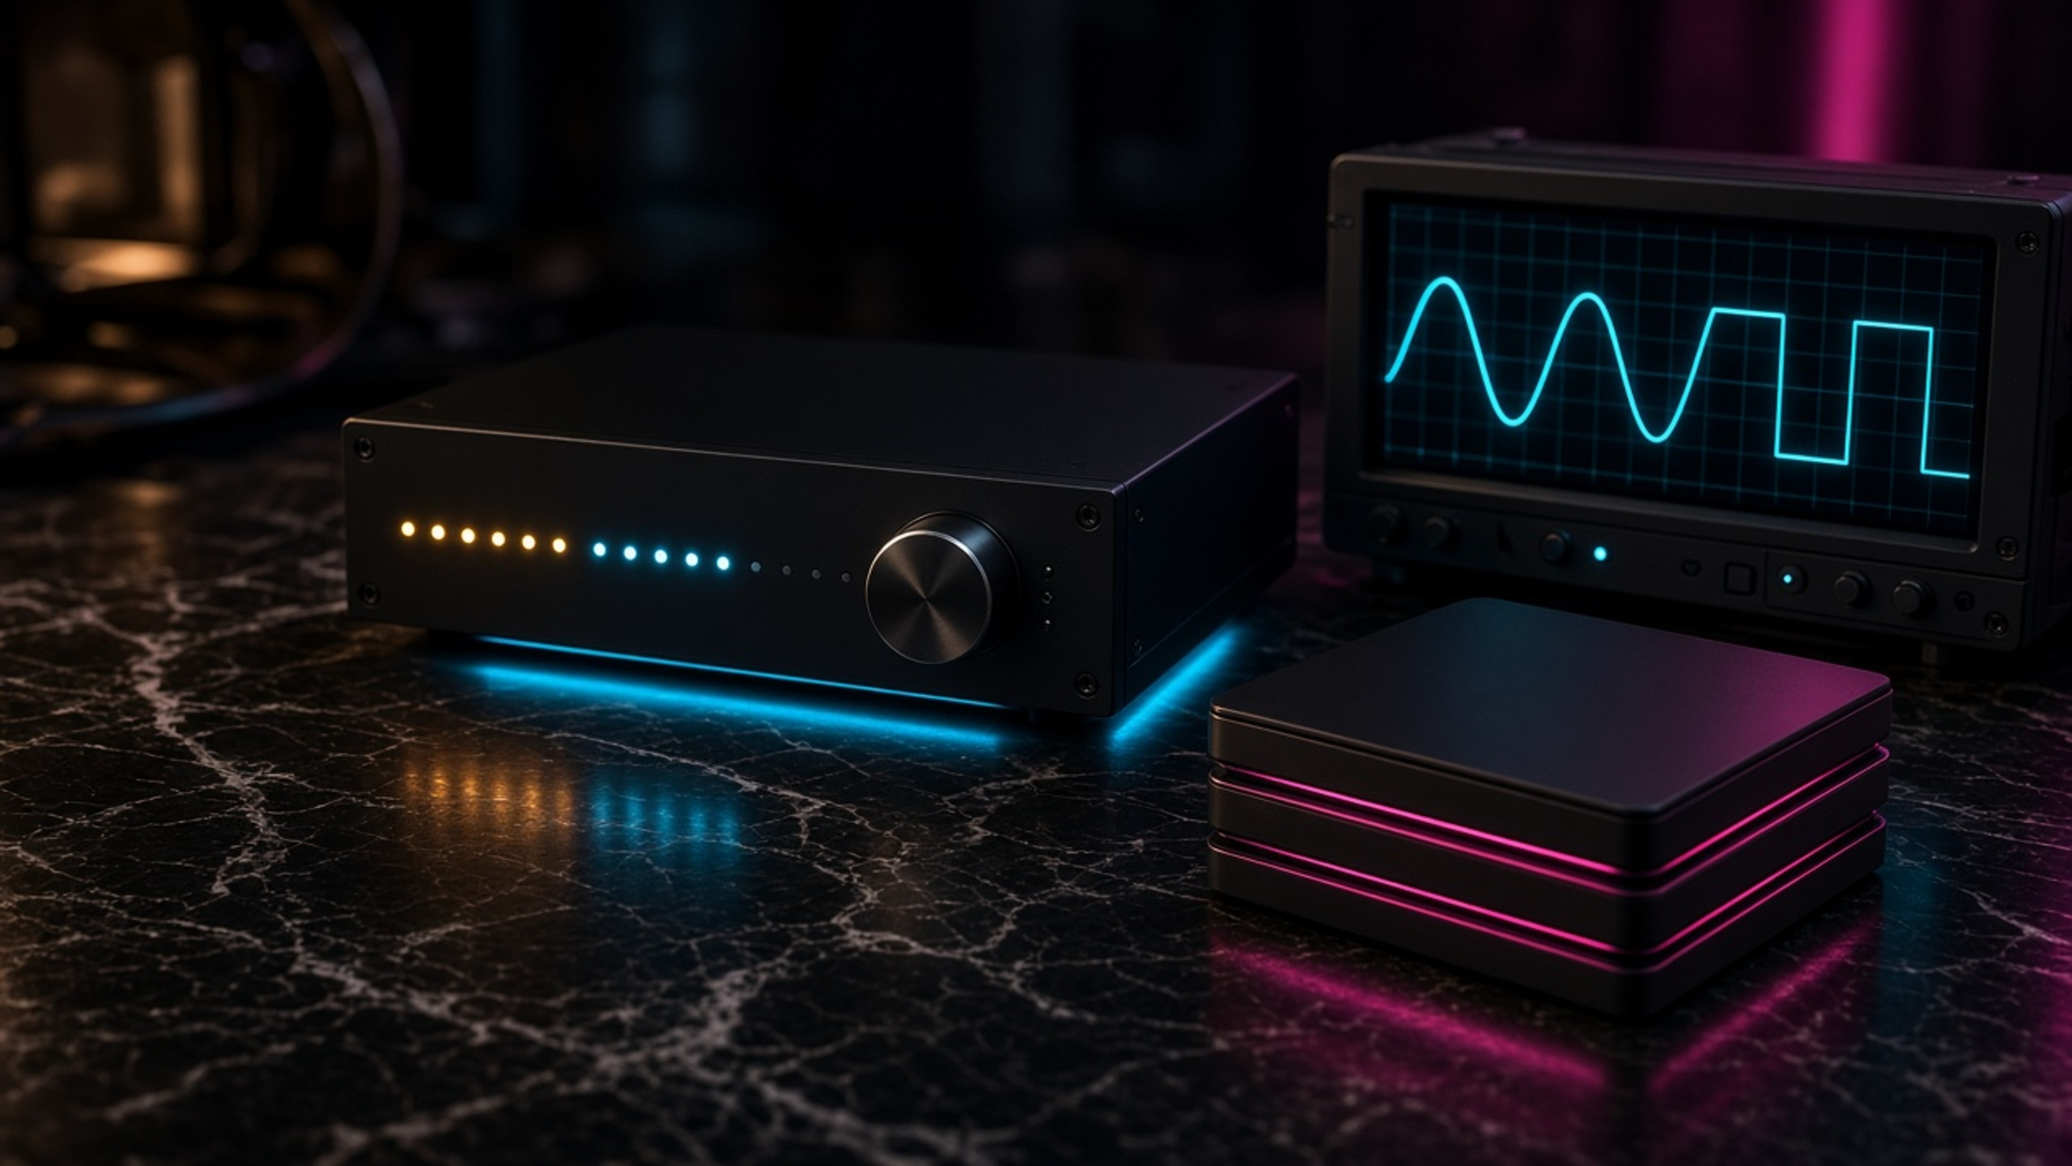
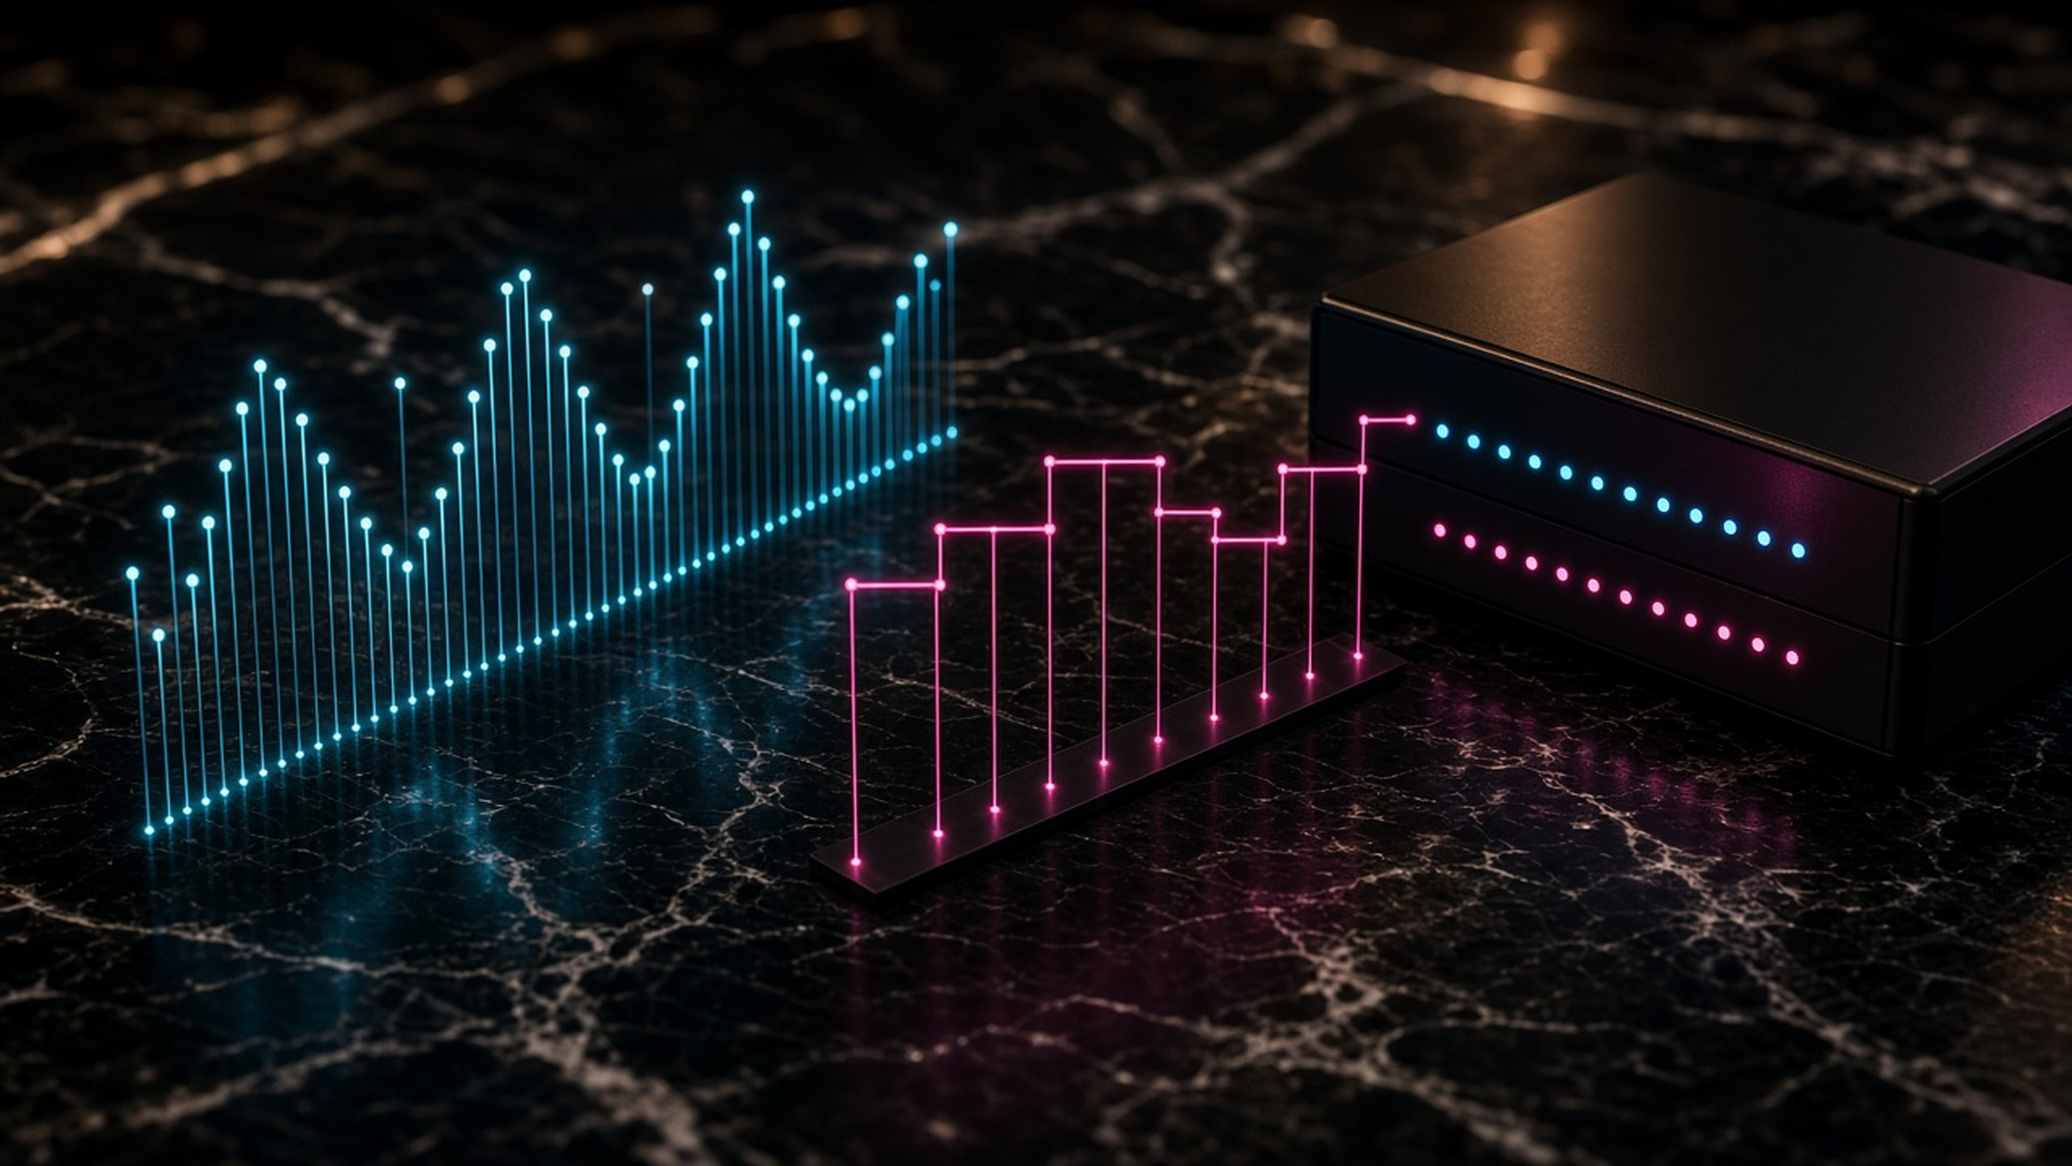
Expand sample-rate essay ~4×; swap cover to option C (?v=sr2)
Replace the live cover with the AD/waveform option C art, bump cache-busters
to ?v=sr2, and expand the hygiene pitch into concrete sections on wrong rates,
44.1/48/96, bit depth, bounce checklist, traps, and ffprobe/CoProducer verify.

diff --git a/blog/sample-rate-and-bit-depth-for-delivery.html b/blog/sample-rate-and-bit-depth-for-delivery.html
@@ -2,19 +2,19 @@
 <html lang="en">
 <head>
 <meta charset="utf-8"/>
-<meta content="width=device-width,initial-scale=1" name="viewport"/><meta content="https://myaiplug.github.io/coproducer-web/blog/img/essays/sample-rate-and-bit-depth-for-delivery.jpg?v=sr1" name="twitter:image"/><meta content="CoProducer fails sample rates under 44.1 kHz. A 32 kHz MP3 labeled MASTER is not a master. Bit depth and rate are hygiene, not vibe." name="twitter:description"/><meta content="Sample rate and bit depth are delivery hygiene" name="twitter:title"/><meta content="summary_large_image" name="twitter:card"/><meta content="2026-08-21T00:00:00Z" property="article:modified_time"/><meta content="2026-08-21T00:00:00Z" property="article:published_time"/><meta content="1440" property="og:image:height"/><meta content="2560" property="og:image:width"/><meta content="https://myaiplug.github.io/coproducer-web/blog/sample-rate-and-bit-depth-for-delivery.html" property="og:url"/><meta content="en_US" property="og:locale"/><meta content="CoProducer" property="og:site_name"/><meta content="article" property="og:type"/><link href="https://myaiplug.github.io/coproducer-web/llms.txt" rel="alternate" title="llms.txt" type="text/plain"/><meta content="NoDAW Labs" name="author"/><meta content="#050308" name="theme-color"/><meta content="index,follow,max-image-preview:large" name="robots"/>
+<meta content="width=device-width,initial-scale=1" name="viewport"/><meta content="https://myaiplug.github.io/coproducer-web/blog/img/essays/sample-rate-and-bit-depth-for-delivery.jpg?v=sr2" name="twitter:image"/><meta content="CoProducer fails sample rates under 44.1 kHz. Why 32 kHz fails delivery, when 44.1/48/96 are fine, what bit depth distributors want, and how to verify the bounce." name="twitter:description"/><meta content="Sample rate and bit depth are delivery hygiene" name="twitter:title"/><meta content="summary_large_image" name="twitter:card"/><meta content="2026-10-06T00:00:00Z" property="article:modified_time"/><meta content="2026-08-21T00:00:00Z" property="article:published_time"/><meta content="1440" property="og:image:height"/><meta content="2560" property="og:image:width"/><meta content="https://myaiplug.github.io/coproducer-web/blog/sample-rate-and-bit-depth-for-delivery.html" property="og:url"/><meta content="en_US" property="og:locale"/><meta content="CoProducer" property="og:site_name"/><meta content="article" property="og:type"/><link href="https://myaiplug.github.io/coproducer-web/llms.txt" rel="alternate" title="llms.txt" type="text/plain"/><meta content="NoDAW Labs" name="author"/><meta content="#050308" name="theme-color"/><meta content="index,follow,max-image-preview:large" name="robots"/><meta content="sample rate, bit depth, 44.1 kHz, 48 kHz, 24-bit, dither, delivery, masters, CoProducer, NoDAW" name="keywords"/>
 <title>Sample rate and bit depth are delivery hygiene | Lacquer</title>
-<meta content="CoProducer fails sample rates under 44.1 kHz. A 32 kHz MP3 labeled MASTER is not a master. Bit depth and rate are hygiene, not vibe." name="description"/>
+<meta content="CoProducer fails sample rates under 44.1 kHz. Why 32 kHz fails delivery, when 44.1/48/96 are fine, what bit depth distributors want, and how to verify the bounce." name="description"/>
 <link href="https://myaiplug.github.io/coproducer-web/blog/sample-rate-and-bit-depth-for-delivery.html" rel="canonical"/>
 <meta content="Sample rate and bit depth are delivery hygiene" property="og:title"/>
-<meta content="CoProducer fails sample rates under 44.1 kHz. A 32 kHz MP3 labeled MASTER is not a master. Bit depth and rate are hygiene, not vibe." property="og:description"/>
-<meta content="https://myaiplug.github.io/coproducer-web/blog/img/essays/sample-rate-and-bit-depth-for-delivery.jpg?v=sr1" property="og:image"/>
+<meta content="CoProducer fails sample rates under 44.1 kHz. Why 32 kHz fails delivery, when 44.1/48/96 are fine, what bit depth distributors want, and how to verify the bounce." property="og:description"/>
+<meta content="https://myaiplug.github.io/coproducer-web/blog/img/essays/sample-rate-and-bit-depth-for-delivery.jpg?v=sr2" property="og:image"/>
 <link href="https://fonts.googleapis.com" rel="preconnect"/>
 <link href="https://fonts.googleapis.com/css2?family=Cormorant+Garamond:ital,wght@0,500;1,500;1,600&amp;family=Figtree:wght@400;500&amp;family=JetBrains+Mono:wght@400;500&amp;display=swap" rel="stylesheet"/>
 <link href="css/journal.css" rel="stylesheet"/>
 
 
-<script type="application/ld+json">{"@context":"https://schema.org","@type":"Article","headline":"Sample rate and bit depth are delivery hygiene","description":"CoProducer fails sample rates under 44.1 kHz. A 32 kHz MP3 labeled MASTER is not a master. Bit depth and rate are hygiene, not vibe.","datePublished":"2026-08-21","dateModified":"2026-08-21","mainEntityOfPage":{"@type":"WebPage","@id":"https://myaiplug.github.io/coproducer-web/blog/sample-rate-and-bit-depth-for-delivery.html"},"image":{"@type":"ImageObject","url":"https://myaiplug.github.io/coproducer-web/blog/img/essays/sample-rate-and-bit-depth-for-delivery.jpg?v=sr1","width":2560,"height":1440},"author":{"@type":"Organization","name":"NoDAW Labs","url":"https://myaiplug.github.io/coproducer-web/","logo":"https://myaiplug.github.io/coproducer-web/assets/og-default.jpg"},"publisher":{"@type":"Organization","name":"NoDAW Labs","url":"https://myaiplug.github.io/coproducer-web/","logo":"https://myaiplug.github.io/coproducer-web/assets/og-default.jpg"},"isPartOf":{"@type":"Blog","name":"Lacquer — CoProducer Journal","url":"https://myaiplug.github.io/coproducer-web/blog/index.html"},"keywords":["sample rate","bit depth","44.1 kHz","delivery","masters"],"speakable":{"@type":"SpeakableSpecification","cssSelector":[".answer","h1"]}}</script><script type="application/ld+json">{"@context":"https://schema.org","@type":"FAQPage","mainEntity":[{"@type":"Question","name":"Is 96 kHz required?","acceptedAnswer":{"@type":"Answer","text":"No for most music delivery. Consistency and legality beat fetish sample rates."}},{"@type":"Question","name":"Does CoProducer convert for you?","acceptedAnswer":{"@type":"Answer","text":"It measures and reports. Conversion is a separate bounce decision."}}]}</script><script type="application/ld+json">{"@context":"https://schema.org","@type":"BreadcrumbList","itemListElement":[{"@type":"ListItem","position":1,"name":"CoProducer","item":"https://myaiplug.github.io/coproducer-web/"},{"@type":"ListItem","position":2,"name":"Lacquer Journal","item":"https://myaiplug.github.io/coproducer-web/blog/index.html"},{"@type":"ListItem","position":3,"name":"Sample rate and bit depth are delivery hygiene","item":"https://myaiplug.github.io/coproducer-web/blog/sample-rate-and-bit-depth-for-delivery.html"}]}</script></head>
+<script type="application/ld+json">{"@context":"https://schema.org","@type":"Article","headline":"Sample rate and bit depth are delivery hygiene","description":"CoProducer fails sample rates under 44.1 kHz. Why 32 kHz fails delivery, when 44.1/48/96 are fine, what bit depth distributors want, and how to verify the bounce.","datePublished":"2026-08-21","dateModified":"2026-10-06","mainEntityOfPage":{"@type":"WebPage","@id":"https://myaiplug.github.io/coproducer-web/blog/sample-rate-and-bit-depth-for-delivery.html"},"image":{"@type":"ImageObject","url":"https://myaiplug.github.io/coproducer-web/blog/img/essays/sample-rate-and-bit-depth-for-delivery.jpg?v=sr2","width":2560,"height":1440},"author":{"@type":"Organization","name":"NoDAW Labs","url":"https://myaiplug.github.io/coproducer-web/","logo":"https://myaiplug.github.io/coproducer-web/assets/og-default.jpg"},"publisher":{"@type":"Organization","name":"NoDAW Labs","url":"https://myaiplug.github.io/coproducer-web/","logo":"https://myaiplug.github.io/coproducer-web/assets/og-default.jpg"},"isPartOf":{"@type":"Blog","name":"Lacquer — CoProducer Journal","url":"https://myaiplug.github.io/coproducer-web/blog/index.html"},"keywords":["sample rate","bit depth","44.1 kHz","48 kHz","24-bit","dither","delivery","masters"],"speakable":{"@type":"SpeakableSpecification","cssSelector":[".answer","h1"]}}</script><script type="application/ld+json">{"@context":"https://schema.org","@type":"FAQPage","mainEntity":[{"@type":"Question","name":"Is 96 kHz required?","acceptedAnswer":{"@type":"Answer","text":"No for most music delivery. Consistency and legality beat fetish sample rates. Deliver at the rate the storefront asks for, usually 44.1 or 48 kHz."}},{"@type":"Question","name":"Does CoProducer convert for you?","acceptedAnswer":{"@type":"Answer","text":"It measures and reports. Conversion is a separate bounce decision — fix the session or re-export at the right rate and depth."}},{"@type":"Question","name":"Should I deliver 32-bit float?","acceptedAnswer":{"@type":"Answer","text":"Keep 32-bit float for session and archive work. Most distributors want 16- or 24-bit PCM WAV/FLAC. Dither when you go to 16-bit."}},{"@type":"Question","name":"Why does CoProducer fail under 44.1 kHz?","acceptedAnswer":{"@type":"Answer","text":"Because most storefronts reject or silently upsample junk rates. A 32 kHz file is not a master, even if the filename says MASTER."}}]}</script><script type="application/ld+json">{"@context":"https://schema.org","@type":"BreadcrumbList","itemListElement":[{"@type":"ListItem","position":1,"name":"CoProducer","item":"https://myaiplug.github.io/coproducer-web/"},{"@type":"ListItem","position":2,"name":"Lacquer Journal","item":"https://myaiplug.github.io/coproducer-web/blog/index.html"},{"@type":"ListItem","position":3,"name":"Sample rate and bit depth are delivery hygiene","item":"https://myaiplug.github.io/coproducer-web/blog/sample-rate-and-bit-depth-for-delivery.html"}]}</script></head>
 <body>
 <header class="top">
 <a class="mark" href="../index.html"><em>Co</em>Producer</a>
@@ -29,26 +29,66 @@
 <a class="cta" href="../index.html#analyzeHome">Measure a mix</a>
 </header>
 <article class="post" id="main">
-<div class="post-hero"><img alt="AD converter and oscilloscope on dark marble" src="img/essays/sample-rate-and-bit-depth-for-delivery.jpg?v=sr1"/></div>
+<div class="post-hero"><img alt="Sampled waveform stems and quantized stairs with AD converter on dark marble" src="img/essays/sample-rate-and-bit-depth-for-delivery.jpg?v=sr2"/></div>
 <header>
-<p class="kicker">Delivery · 21 August 2026 · 6 min</p>
+<p class="kicker">Delivery · 21 August 2026 · 8 min</p>
 <h1>Sample rate and bit depth are delivery hygiene</h1>
 <p class="meta">NoDAW Labs · Lacquer Vol. 02</p>
 </header>
 <p class="answer">CoProducer fails sample rates under 44.1 kHz. A 32 kHz MP3 labeled MASTER is not a master. Bit depth and rate mistakes are cheap to prevent and expensive to explain to a distributor.</p>
-<h2>The boring gate that saves recalls</h2>
-<p>Most storefronts expect at least 44.1 kHz. Working at 48 kHz is fine; delivering a bounced-down consumer encode is not. Check the file properties before you upload — or let the report fail you first in private.</p>
-<p>Keep a bounce folder naming convention that includes rate and bit depth so assistants stop guessing.</p>
-<h2>Where it sits in the checklist</h2>
-<p>Sample rate sits beside LUFS, true peak, clips, phase, and score. It is not glamorous. It is why Friday night uploads get rejected Monday morning.</p>
-<p>Measure once. Fix once. Ship.</p>
+<p>You already know the loudness and true-peak story. This gate is quieter. It does not change how the chorus hits. It decides whether the portal accepts the upload on Monday. Treat rate and depth like file naming: boring, visible, non-negotiable.</p>
+<h2>Why 32 kHz fails — and what CoProducer flags</h2>
+<p>Most storefronts expect at least 44.1 kHz. Anything under that is usually a bounced-down preview, a voice-memo export, or an MP3 someone renamed. CoProducer’s release gate matches the checklist: sample rate <strong>≥ 44.1 kHz</strong>. Fail it in private before the distributor fails you in public.</p>
+<p>Wrong rate does not always sound broken on laptop speakers. Nyquist for 32 kHz is 16 kHz, so air and cymbals are already gone or aliased. The bigger problem is process: the file is not what the storefront asked for. If the report paints sample rate red, re-export from the session at a legal rate — do not argue with the meter.</p>
+<h2>44.1 vs 48 vs 96: when each is fine</h2>
+<p><strong>44.1 kHz</strong> is still the music default — CD heritage, most sample libraries, and a huge chunk of distributor templates. If you mixed at 44.1 and the storefront says 44.1, deliver 44.1.</p>
+<p><strong>48 kHz</strong> is the video / game / broadcast lane, and plenty of producers work there for everything. Fine for music when the portal accepts it. If a partner insists on 44.1, convert once with a high-quality SRC on the final bounce — not three times across assistants’ laptops.</p>
+<p><strong>96 kHz</strong> helps when you are stacking nonlinear plugins, pitching, or archiving. It is not a loudness upgrade and it is not required for streaming. Shipping 96 when the portal wants 44.1/48 just means someone else resamples you, often worse than you would. Consistency beats fetish.</p>
+<table>
+<thead><tr><th>Rate</th><th>Fine when</th><th>Cargo cult when</th></tr></thead>
+<tbody>
+<tr><td>44.1 kHz</td><td>Music delivery, matching a 44.1 session</td><td>You upsampled a 32 kHz MP3 and called it high-res</td></tr>
+<tr><td>48 kHz</td><td>Video, games, portals that list 48</td><td>You convert “just in case” without asking</td></tr>
+<tr><td>96 kHz</td><td>Heavy processing, archive, clients who asked</td><td>You think the stream will sound “more 96”</td></tr>
+</tbody>
+</table>
+<h2>Bit depth: 16 vs 24 vs 32-float</h2>
+<p>Bit depth is headroom and noise floor while you work, not a vibe knob. Rough numbers: 16-bit theoretical noise floor sits around −96 dBFS; 24-bit around −144 dBFS. In a real room you never hear the bottom of 24-bit. What you hear is whether you clipped, or truncated without dither on the way down.</p>
+<p><strong>32-bit float</strong> forgives overs inside the box — keep it for mixing, stems, and archives. Most distributors want integer PCM, usually <strong>24-bit WAV or FLAC</strong>, sometimes 16-bit for CD / legacy paths. Check the portal. When you go to 16-bit, <strong>dither</strong>. Truncation without dither adds grain on quiet fades. Staying at 24-bit for delivery usually needs no dither.</p>
+<h2>Bounce checklist</h2>
+<table>
+<thead><tr><th>Check</th><th>Target</th><th>Notes</th></tr></thead>
+<tbody>
+<tr><td>Sample rate</td><td>≥ 44.1 kHz; match the portal</td><td>Convert once, high-quality SRC</td></tr>
+<tr><td>Bit depth</td><td>24-bit PCM typical; 16-bit if asked</td><td>Dither only when reducing depth</td></tr>
+<tr><td>File type</td><td>WAV or FLAC as required</td><td>Not an MP3 labeled MASTER</td></tr>
+<tr><td>True peak / LUFS</td><td>Same six-gate checklist</td><td>Rate and depth do not fix clips</td></tr>
+<tr><td>Naming</td><td>Include rate and depth in the filename</td><td>Stops assistants guessing</td></tr>
+</tbody>
+</table>
+<p>A bounce named <code>Title_master_48k_24b.wav</code> beats a folder of <code>FINAL_FINAL2.mp3</code>. Hygiene is half engineering and half labeling.</p>
+<h2>Common traps</h2>
+<p><strong>MP3 labeled MASTER.</strong> Lossy encode is a distribution format after the master exists, not the master. Export PCM first.</p>
+<p><strong>Resampling twice.</strong> Session at 48 → “preview” at 44.1 → “fix” back to 48. Each pass costs fidelity. Convert once on the ship bounce.</p>
+<p><strong>Cheap SRC.</strong> Real-time device converters are not all equal. For a release convert, use a known-good offline SRC, then re-measure.</p>
+<p><strong>Upsampling junk.</strong> Turning a 32 kHz voice memo into 96 kHz does not restore missing air. Fix the source session.</p>
+<h2>How to verify</h2>
+<p>Read the file properties before you open the portal. ffprobe is enough:</p>
+<pre><code>ffprobe -v error -select_streams a:0 \
+  -show_entries stream=sample_rate,bits_per_raw_sample,bits_per_sample,codec_name \
+  -of default=nw=1 MASTER.wav</code></pre>
+<p>You want <code>sample_rate=44100</code> or <code>48000</code>, a PCM codec, and bit depth that matches the portal. If ffprobe shows <code>mp3</code> or <code>32000</code>, stop. Drop the same file on CoProducer’s analyze table — sample rate under 44.1 kHz fails the gate on purpose, beside LUFS, true peak, clips, phase, and score. Private red is cheaper than Monday morning email.</p>
 <div data-ab="crazy-stacy" data-report=""></div>
-<aside class="aside">Run the six-gate checklist in <a href="release-checklist-that-matches-the-meter.html">this essay</a> before you open the distributor portal.</aside>
+<aside class="aside">Run the six-gate checklist in <a href="release-checklist-that-matches-the-meter.html">this essay</a> before you open the distributor portal. Handbook version: <a href="../guides/audio-quality-checklist.html">audio quality checklist</a>. Measure a file: <a href="../analyze.html">Analyze</a>.</aside>
 <dl class="faq">
 <dt>Is 96 kHz required?</dt>
-<dd>No for most music delivery. Consistency and legality beat fetish sample rates.</dd>
+<dd>No for most music delivery. Consistency and legality beat fetish sample rates. Deliver at the rate the storefront asks for, usually 44.1 or 48 kHz.</dd>
 <dt>Does CoProducer convert for you?</dt>
-<dd>It measures and reports. Conversion is a separate bounce decision.</dd>
+<dd>It measures and reports. Conversion is a separate bounce decision — fix the session or re-export at the right rate and depth.</dd>
+<dt>Should I deliver 32-bit float?</dt>
+<dd>Keep 32-bit float for session and archive work. Most distributors want 16- or 24-bit PCM WAV/FLAC. Dither when you go to 16-bit.</dd>
+<dt>Why does CoProducer fail under 44.1 kHz?</dt>
+<dd>Because most storefronts reject or silently upsample junk rates. A 32 kHz file is not a master, even if the filename says MASTER.</dd>
 </dl>
 <nav aria-label="Related essays" class="related-essays" style="margin:48px 0 24px;padding-top:24px;border-top:1px solid rgba(196,165,116,.32)"><h2>Related in Lacquer</h2><ul><li><a href="release-checklist-that-matches-the-meter.html">A release checklist that matches the meter</a></li><li><a href="reencoding-eats-true-peak-headroom.html">Re-encoding eats true-peak headroom</a></li><li><a href="why-three-report-formats.html">Why HTML, JSON, and TXT all matter</a></li></ul></nav></article>
 <section class="comments" data-comments="" data-thread="sr"></section>

diff --git a/blog/index.html b/blog/index.html
@@ -148,11 +148,11 @@
 </section>
 <section class="folio">
 <a class="piece" href="sample-rate-and-bit-depth-for-delivery.html">
-<img alt="Print proof sheet on a black desk" src="img/essays/sample-rate-and-bit-depth-for-delivery.jpg?v=shd"/>
+<img alt="Sampled waveform stems and quantized stairs with AD converter on dark marble" src="img/essays/sample-rate-and-bit-depth-for-delivery.jpg?v=sr2"/>
 <div class="body">
-<span class="byline">Delivery · 6 min</span>
+<span class="byline">Delivery · 8 min</span>
 <h2 class="card-title">Sample rate and bit depth are delivery hygiene</h2>
-<p class="excerpt">CoProducer fails sample rates under 44.1 kHz. A 32 kHz MP3 labeled MASTER is not a master. Bit depth and rate mistakes are cheap to prevent…</p>
+<p class="excerpt">CoProducer fails sample rates under 44.1 kHz. Why 32 kHz fails delivery, when 44.1/48/96 are fine, and what bit depth distributors want…</p>
 </div>
 </a>
 <div class="stack">
